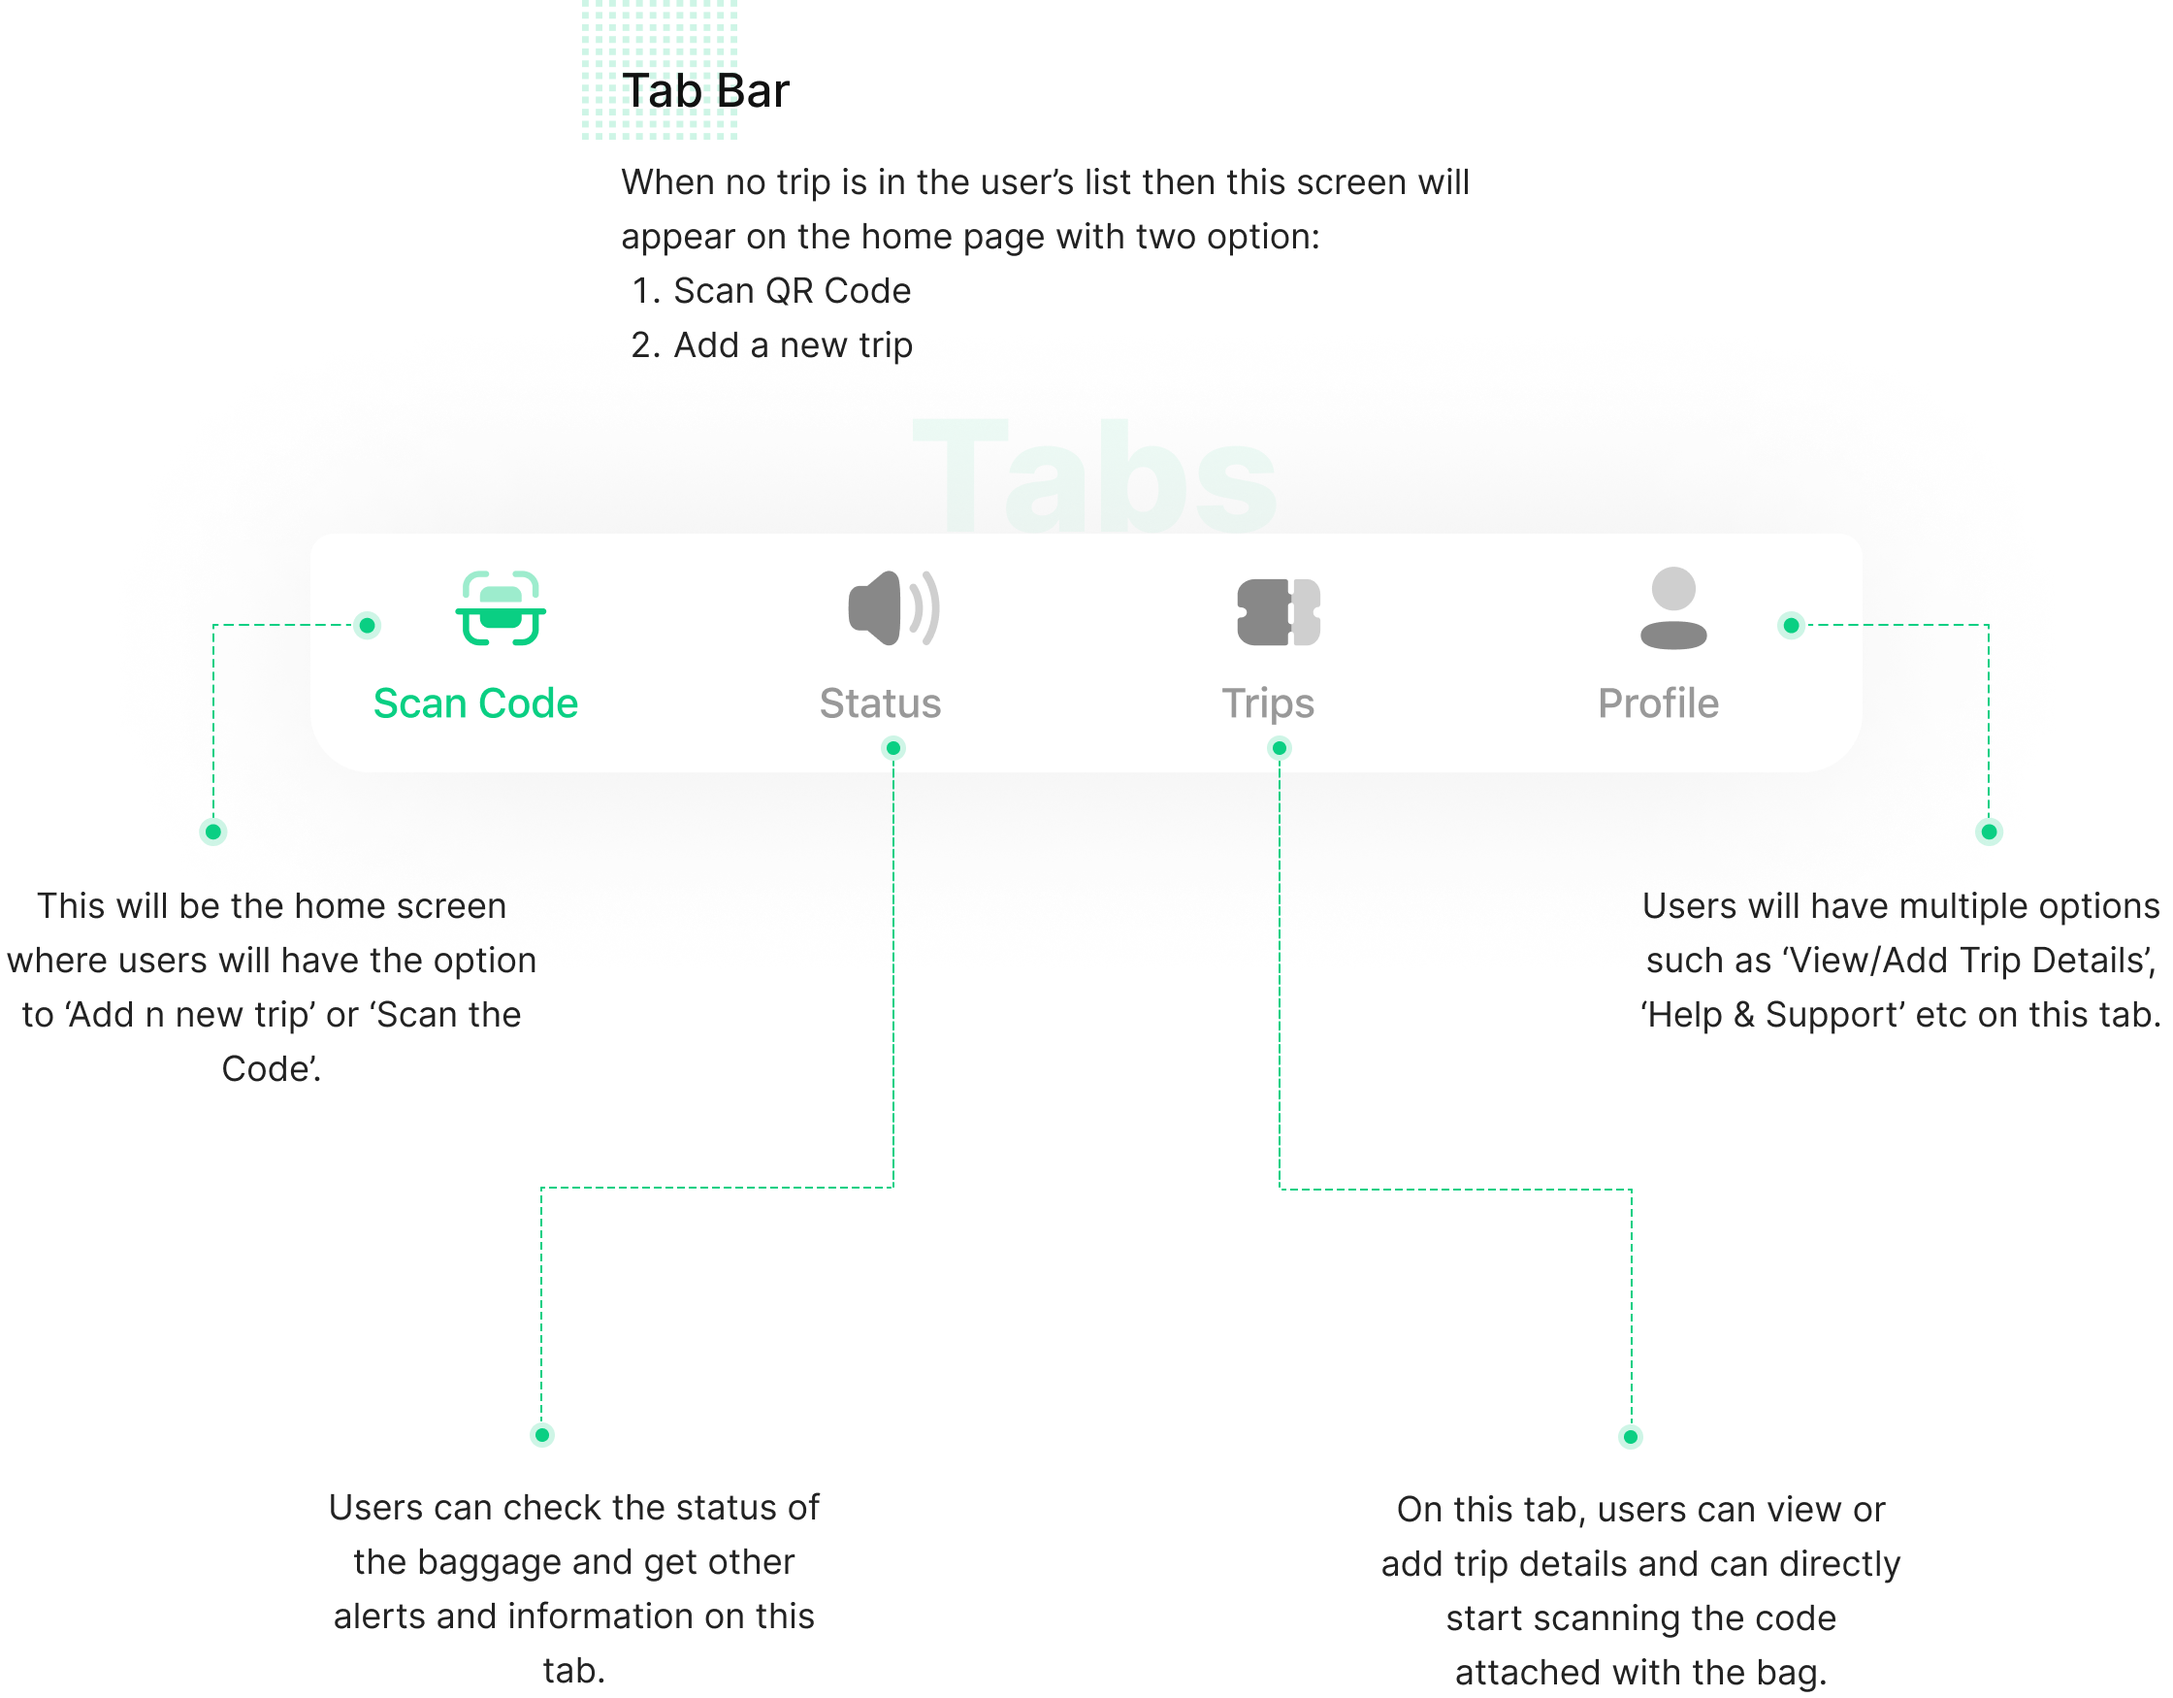
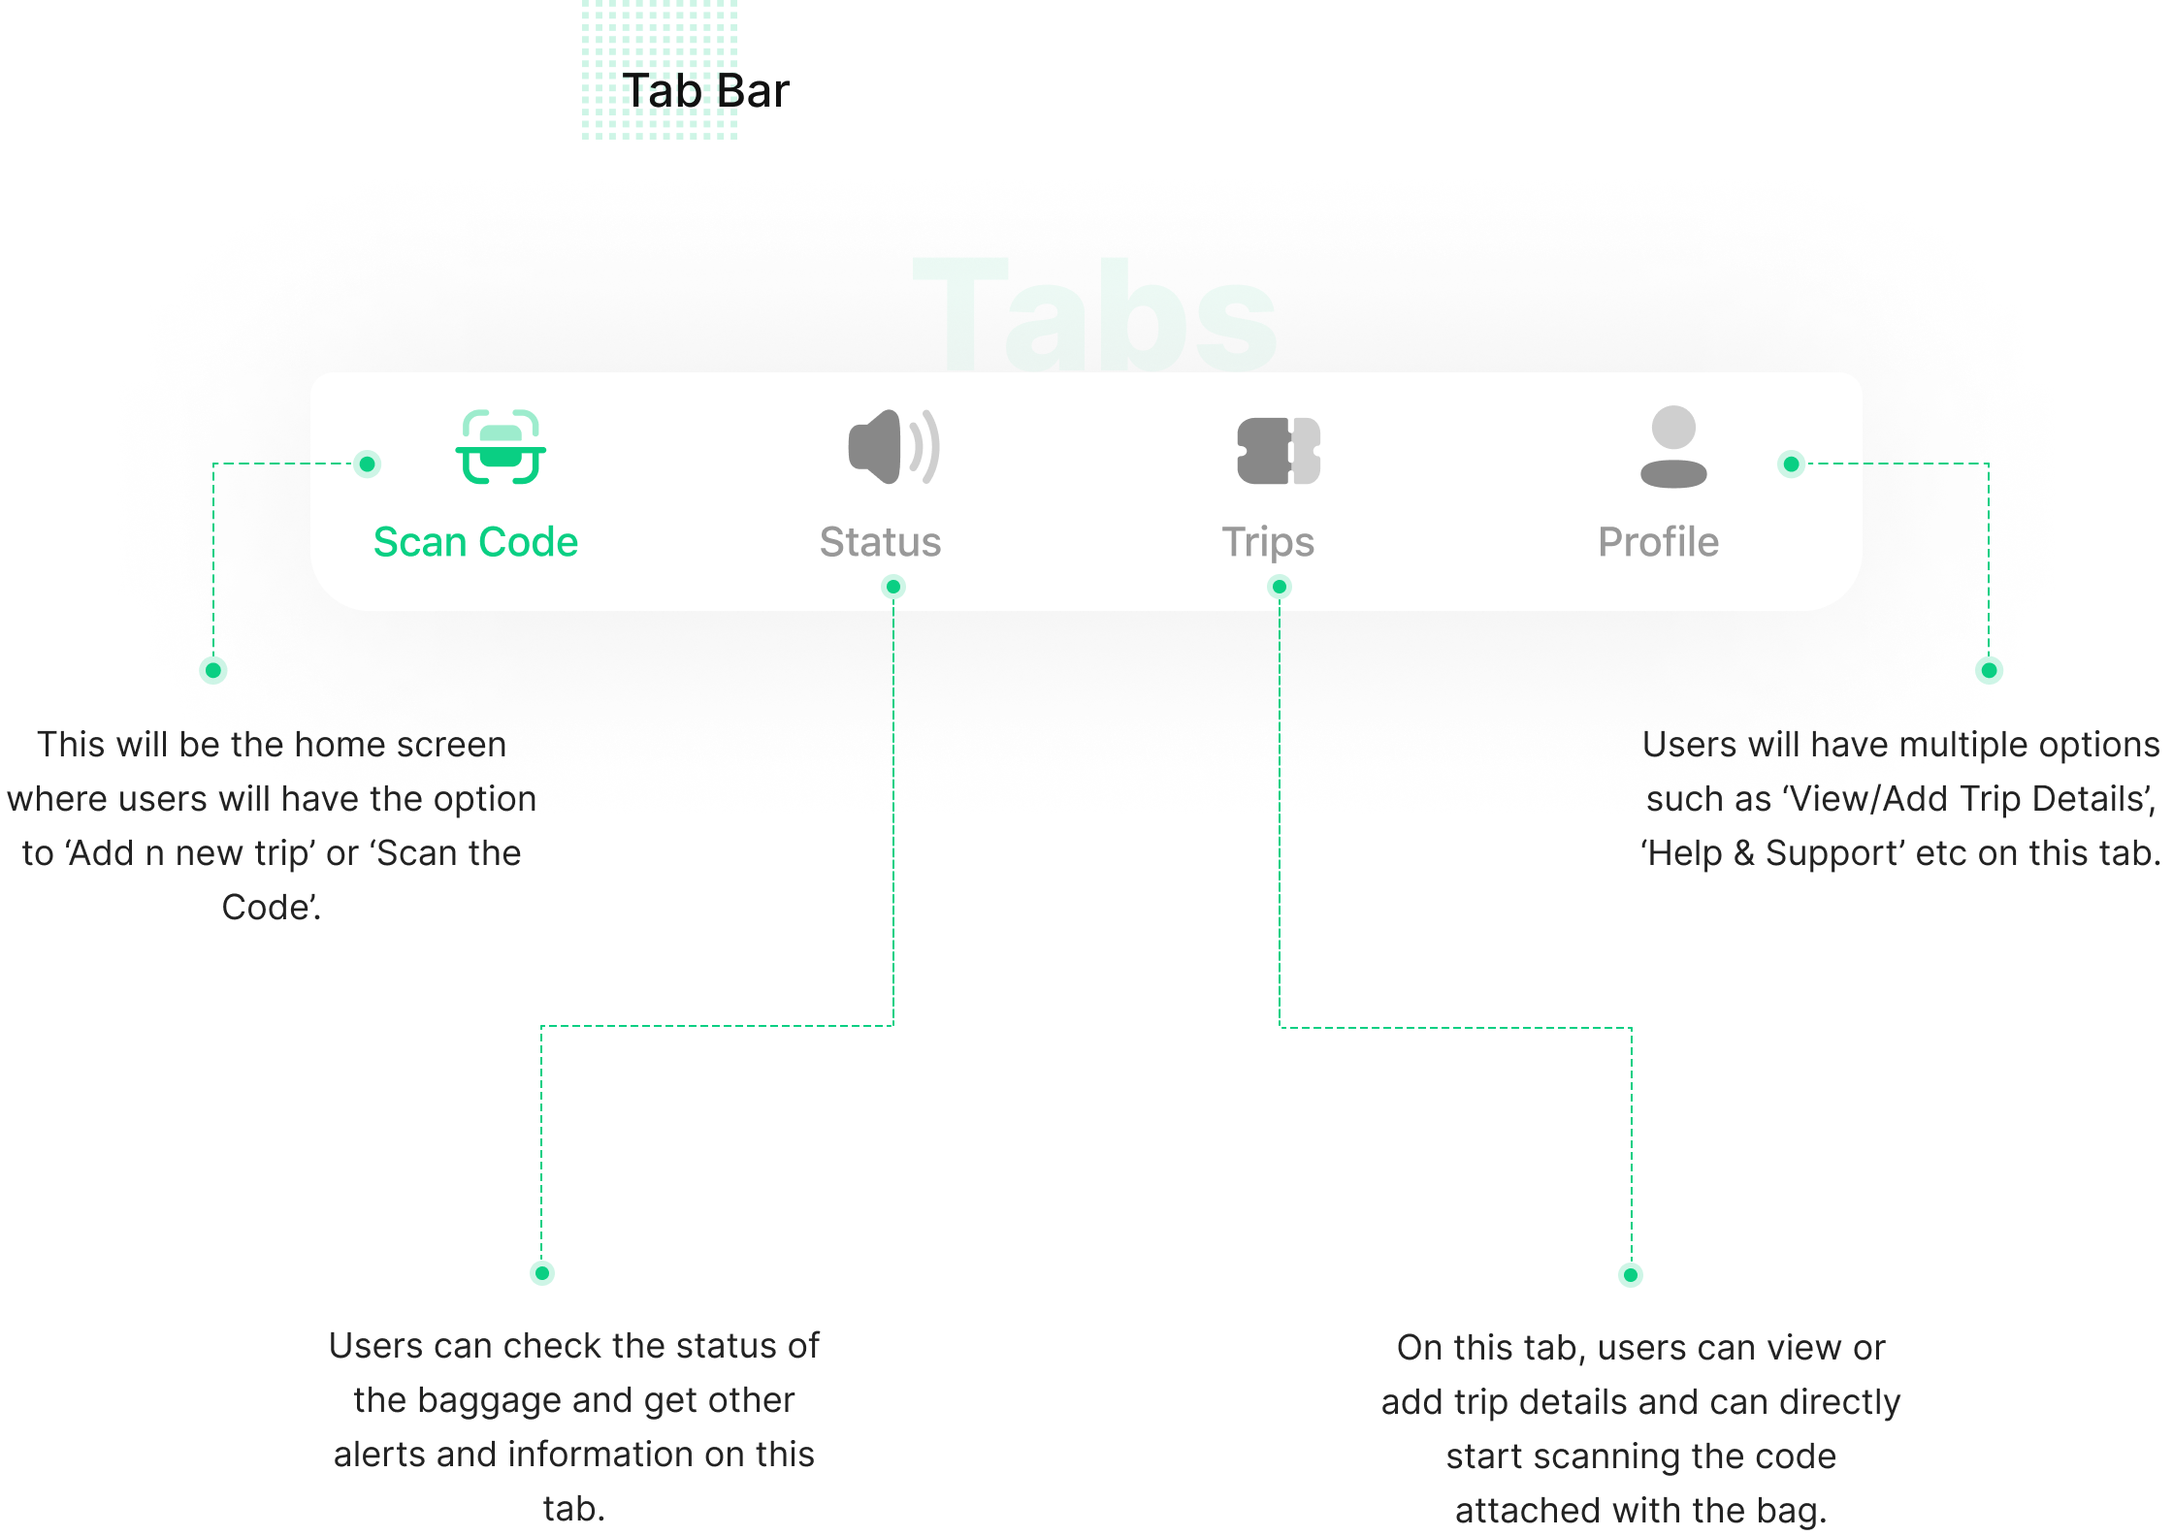
resolved ims and gepack  related issues

diff --git a/src/components/CaseStudies/Geepack/Geepack.js b/src/components/CaseStudies/Geepack/Geepack.js
@@ -5,7 +5,9 @@ import five from '../../../assets/svg/about/Rectangle 3.svg'
 import six from '../../../assets/svg/about/flow.svg'
 import seven from '../../../assets/png/font & colors.png'
 import nine from '../../../assets/png/1. home.png'
+
 import ten from '../../../assets/png/tab bar.png'
+
 import eleven from '../../../assets/png/3. scan qr.png'
 import twelve from '../../../assets/png/add new trip.png'
 import thirteen from '../../../assets/png/5. status update.png'
@@ -61,7 +63,7 @@ const Geepack = () => {
 												<h3 className="heading4">Goal</h3>
 											</Col>
 											<Col md={12} className="text-start para2">
-												<small>To improve the user experience by redefining and analyzing the loopholes of the product. For this, I collaborated with Engineering and deveopment teams.</small>
+												<small>To increase the effectiveness and accuracy of the baggage handling process by giving  users accurate real-time information about their baggages.</small>
 											</Col>
 									</Row>
 								</Col>
@@ -72,8 +74,8 @@ const Geepack = () => {
 										</Col>
 										<Col md={12} className="text-start">
 										<ul className='para2'>
-											<li><small>1st version: 8 weeks</small></li>
-											<li><small>2nd version: 2 weeks</small></li>
+											<li><small>1st version: 5 weeks</small></li>
+											{/* <li><small>2nd version: 2 weeks</small></li> */}
 										</ul> 
 										</Col>
 								</Row>
@@ -85,8 +87,8 @@ const Geepack = () => {
 										</Col>
 										<Col md={12} className="text-start">
 										<ul className='para2'>
-											<li><small>Research & UX Design: Competitive analysis, user flow, information architecture, wireframing</small></li>
-											<li><small>UI Design: Visuals</small></li>
+											<li><small>Research & UX Design: Interview, Survey, Observation, user flow, IA, wireframing, user-testing</small></li>
+											<li><small>UI Design: Visuals, user-testing</small></li>
 										</ul> 
 										</Col>
 								</Row>
@@ -97,7 +99,7 @@ const Geepack = () => {
 											<h3 className="heading4">Skills</h3>
 										</Col>
 										<Col md={12} className="text-start para2">
-											<small>Competitive analysis, user flow, information architecture, wireframing, user testing, interaction design, user interface</small>
+											<small>Qualitative & quantitative analysis, user flow, IA, wireframing, user testing, interaction design, user interface, Figma, Illustrator.</small>
 										</Col>
 								</Row>
 							</Col>
@@ -205,7 +207,7 @@ const Geepack = () => {
 								<h3 className='heading4'>Proposed Solutions</h3>
 							</Col>
 							<Col  md={12}>
-							<p className="para2"> To validate the pain points and user cases, I interviewed few of my friends and relatives asking them about their travel experiences and to know about their pain points. Based on this I concluded that these problems do exist and proposed following solutions:</p>
+							<p className="para2"> To validate the pain points and use cases, I interviewed few of my friends and relatives asking them about their travel experiences and to know about their pain points. Based on this I concluded that these problems do exist and proposed following solutions:</p>
 							</Col>
                             <Col md={12} className="mt-2">
 							<Row className='mt-2 mb-5' >
@@ -298,7 +300,7 @@ const Geepack = () => {
 								<h3 className='heading4'>Visuals</h3>
 							</Col>
 							<Col  md={12}>
-						    	<p className="para2"> After the research and wireframing, I moved further into the visual design and created 50+ screens.</p>
+						    	<p className="para2"> From the research, user flow and information architecture, I created the high-fidelity screens to provide the user with an intuitive and engaging experience.</p>
 							</Col>
                             <Col md={12} className="mt-2 d-flex justify-content-center mb-5" >
 							<Image src={nine} alt={'Employee Management'} style={{width:"100%", height:"100%"}} fluid />
@@ -307,17 +309,6 @@ const Geepack = () => {
                  </Container>
 
                  <Row className='g-second-container pb-5' style={{width:"100%"}}>
-                    {/* <Col className='d-flex justify-content-center' md={12} >
-                    <Row className={`mt-5 text-center ${width > 1000 ? "w-25" : "w-75"}`}>
-							<Col md={12}>
-								<h3 className='heading4'>Tab Bar</h3>
-                                <p className="para2"> After the research and wireframing, I moved further into the visual design and created 50+ screens.</p>
-                                <p className='m-0'>1. Scan QR Code</p>
-								<p className="para2"> 2. Add a new trip</p>
-							</Col>
-                         
-					</Row>
-                    </Col> */}
                     <Col className='d-flex justify-content-center'>
                     <Row className="mt-5" style={{width:"70%"}}  >
                     <Image src={ten} alt={'Employee Management'} style={{width:"100%", height:"100%"}} fluid />

diff --git a/src/components/CaseStudies/EmployeeManagement/EmployeeManagement.js b/src/components/CaseStudies/EmployeeManagement/EmployeeManagement.js
@@ -228,7 +228,7 @@ In order to do so, he sets up a stream, inputs threshold value, and just waits f
 							<p className='para2' style={{color: textColor}}>1. <span className='para1'>Nomenclature:</span> The naming convention is very important when it comes to accessibility. Users should know what the feature is for or what the given action does just by reading the name. Although our naming convention was easily understood by our team, we realized it could be improved for better and made them user-friendly. </p>
 							<p className='para2' style={{color: textColor}}>2.  <span className='para1'>Hierarchy:</span>  We improved the overall hierarchy of our system.</p>
 
-							<p className='para2' style={{color: textColor}}>2.  <span className='para1'>Hierarchy:</span>  After brainstorming the feasibility of all the features, we started structuring all the information we had. Our new user flow had these key steps.</p>
+							<p className='para2' style={{color: textColor}}> After brainstorming the feasibility of all the features, we started structuring all the information we had. Our new user flow had these key steps.</p>
 
 							</Col>
 
@@ -246,7 +246,7 @@ In order to do so, he sets up a stream, inputs threshold value, and just waits f
 							</Col>
 							<Col md={12} className="mt-2">
 							<p className='para2' style={{color: textColor}}>An incident is an event or series of events that are generated when there is any disturbance in service due to numerous reasons. At cliff.ai, after the creation of a Stream, when a bunch of related anomalies is found, we group them to create an Incident.</p>
-							<p className='para2' style={{color: textColor}}>Considering the outcomes of competitive analysis, we worked on the user flow and transformed the navigation of the alert system and we realized the importance of segregating to multiple sections and thus decided to divide our existing alert system into three parts: Monitors, Incidents & Escalation Policies.</p>
+							<p className='para2' style={{color: textColor}}>Considering the outcomes of competitive analysis, we worked on the user flow and transformed the navigation of the alert system and we realized the importance of segregating to multiple sections and thus decided to divide our existing alert system into three parts: <span className='para1'>Monitors, Incidents & Escalation Policies</span>.</p>
 
 							<p className='para2 mb-5' style={{color: textColor}}>Let’s go deeper and see all three parts in detail. </p>
 							</Col>
@@ -335,9 +335,7 @@ In order to do so, he sets up a stream, inputs threshold value, and just waits f
 							    <Image src={twentyone} alt={'Employee Management'} style={{width:"80%", height:"100%"}} fluid />
 							</Col>
 							<Col md={12} className="mt-5">
-								<p className='para2' style={{color: textColor}}>Now comes the fun part, as soon as an Incident is generated, the notifications will be pushed to the respected assigned responders based on the Default Escalation Policy, AUTOMATICALLY!</p>
-
-								<p className='para2' style={{color: textColor}}>i.e., Users do not need to set up anything for the feature to work properly. Our Base Escalation Policy will take care of it for them. Hence one problem is solved.</p>
+								<p className='para2' style={{color: textColor}}>Now comes the fun part, as soon as an Incident is generated, the notifications will be pushed to the respected assigned responders based on the Default Escalation Policy, AUTOMATICALLY,i.e., Users do not need to set up anything for the feature to work properly. Our Base Escalation Policy will take care of it for them. Hence one problem is solved.</p>
 								<p className='para2' style={{color: textColor}}>However, we had to address the problem of whom and when to escalate the notification. This is where Escalation Policy comes into the picture. By adding any number of users or teams and setting favorable rules so that in case of occurrence of an Incident, the assigned responders would be notified based on those preset rules.</p>
 								<p className='para2' style={{color: textColor}}>An escalation policy describes the following three things:</p>
 								<p className='para2 mb-0' style={{color: textColor}}>1.  Who to deliver the notifications to.</p>
